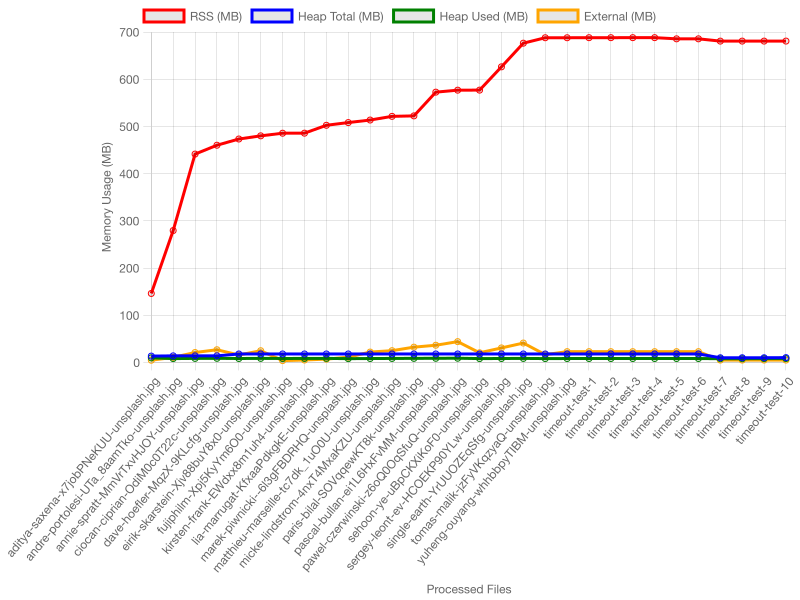
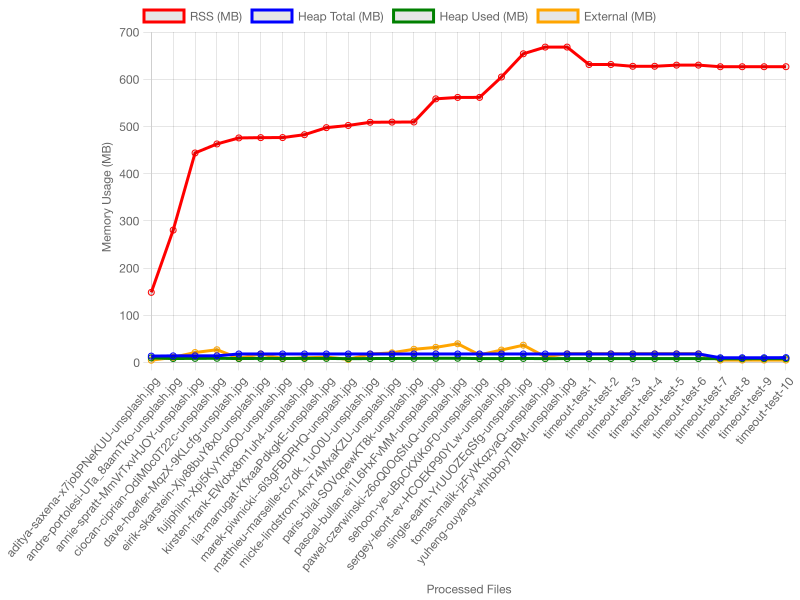
push new test results

diff --git a/index.ts b/index.ts
@@ -114,6 +114,7 @@ async function main() {
   try {
     sharp.concurrency(1);
     sharp.cache(false);
+    //sharp.simd(true);
     const data = await processImage();
     await plotChart(data);
   } catch (error) {
